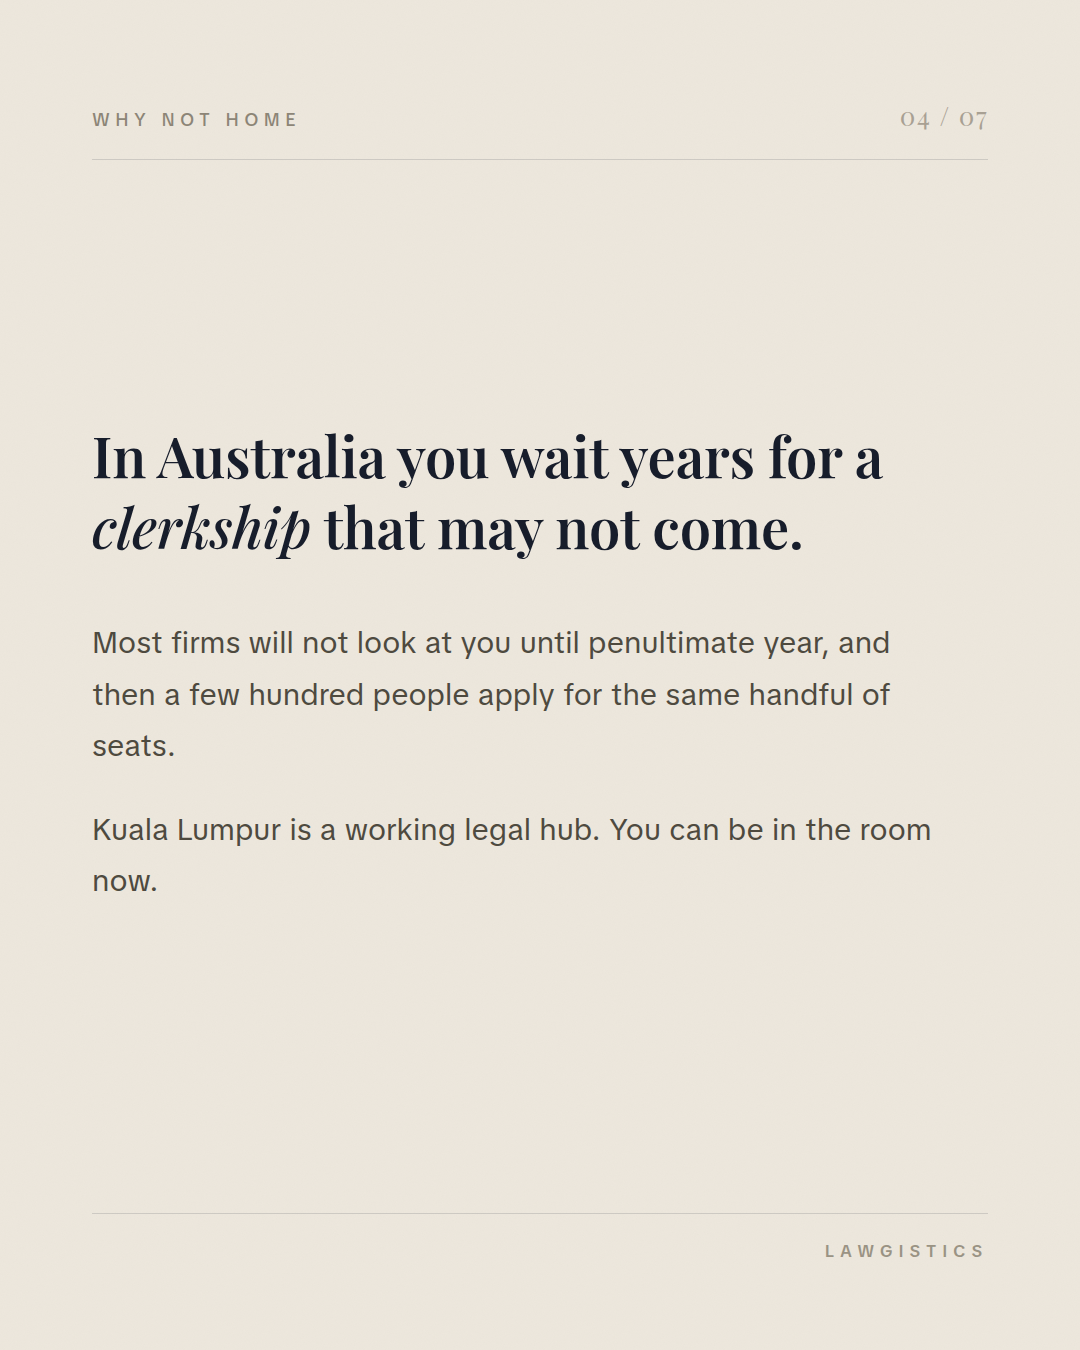
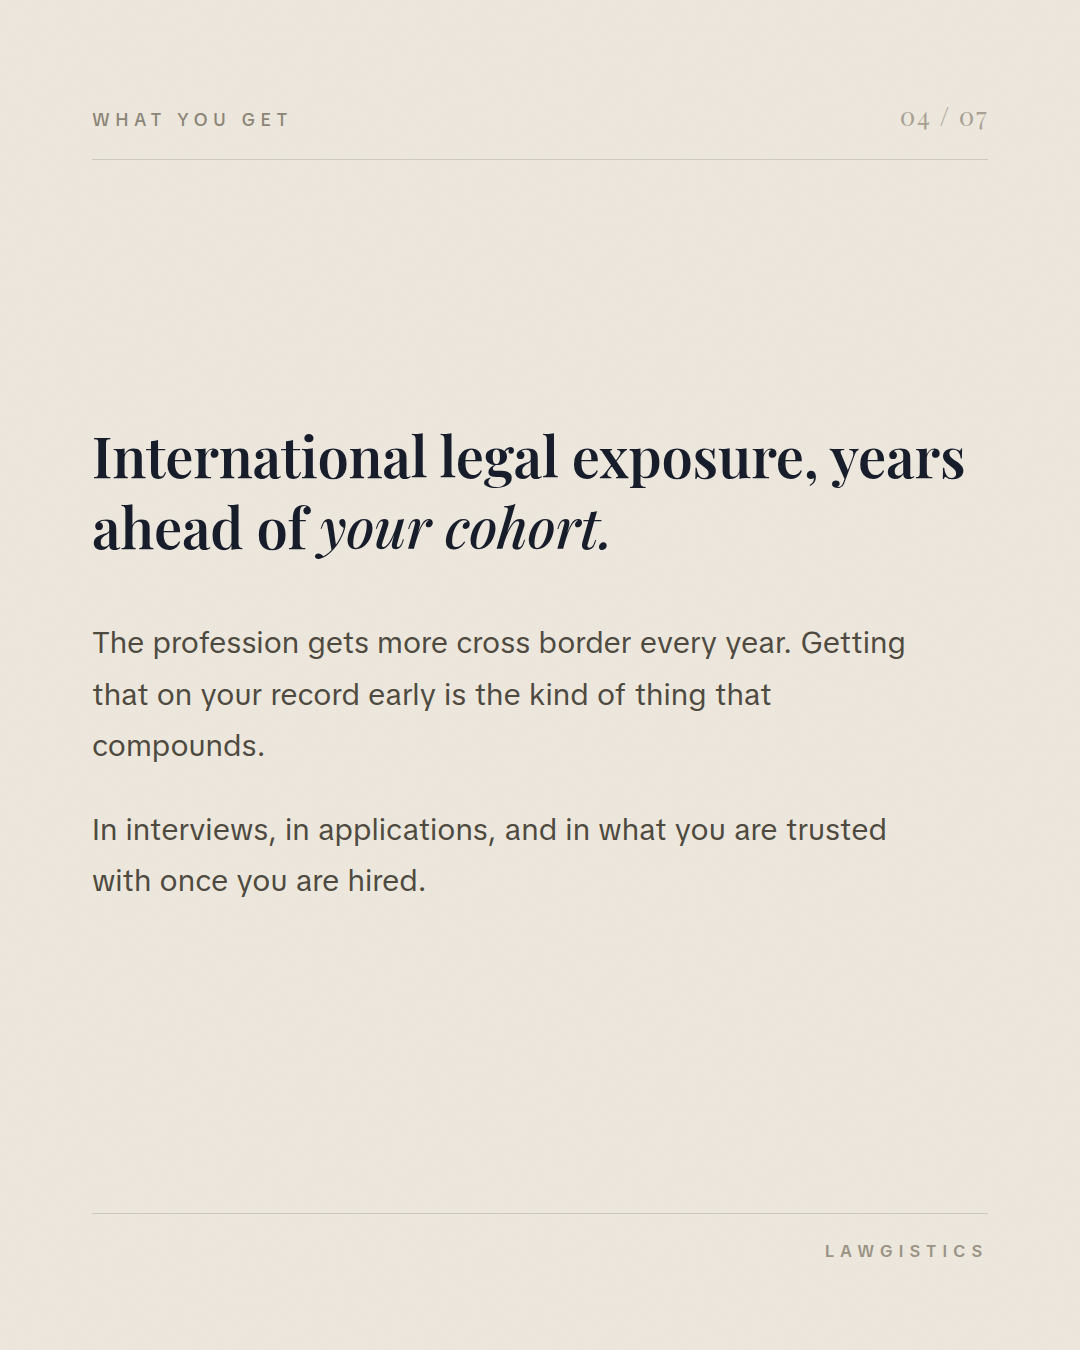
Reframe pinned post as gain, not shortfall
- slide 4: clerkship scarcity framing removed entirely, replaced with
  international exposure ahead of your cohort
- slide 6: drop 'no distinction average', which carried the same signal
- caption and LinkedIn version realigned
- standing rule recorded in CLAUDE.md so future program copy never positions
  the program against a shortage at home

Claude-Session: https://claude.ai/code/session_01JRjeUUcoRT5GxuTf3inkfN

diff --git a/tools/carousel/pinned.py b/tools/carousel/pinned.py
@@ -121,10 +121,10 @@ slide(3, "What You Do",
   '<div><b>Career insight.</b> Ask the questions your lecturers cannot answer.</div>'
   '</div>')
 
-slide(4, "Why Not Home",
-  '<div class="statement md">In Australia you wait years for a <em>clerkship</em> that may not come.</div>'
-  '<div class="body"><p>Most firms will not look at you until penultimate year, and then a few hundred people apply for the same handful of seats.</p>'
-  '<p>Kuala Lumpur is a working legal hub. You can be in the room now.</p></div>',
+slide(4, "What You Get",
+  '<div class="statement md">International legal exposure, years ahead of <em>your cohort.</em></div>'
+  '<div class="body"><p>The profession gets more cross border every year. Getting that on your record early is the kind of thing that compounds.</p>'
+  '<p>In interviews, in applications, and in what you are trusted with once you are hired.</p></div>',
   light=True)
 
 slide(5, "Why It Matters",
@@ -133,9 +133,8 @@ slide(5, "Why It Matters",
   '<p>That is an interview answer nobody else in the room has.</p></div>')
 
 slide(6, "Who It Is For",
-  '<div class="statement md">Any year. No experience required.</div>'
-  '<div class="body"><p>First year to final year, and recent graduates. You do not need prior legal work, a distinction average, or a connection in the profession.</p>'
-  '<p>You need to want to be in the room.</p></div>',
+  '<div class="statement md">Students who want to be <em>ahead</em> of where they are.</div>'
+  '<div class="body"><p>Open from first year through to final year, and to recent graduates. No prior legal experience needed, and no connection in the profession required.</p></div>',
   light=True)
 
 slide(7, "Apply",

diff --git a/reports/assets/pinned/POSTING-KIT.md b/reports/assets/pinned/POSTING-KIT.md
@@ -27,11 +27,11 @@ Practical experience. You work alongside lawyers on live matters.
 
 Career insight. You get to ask the questions your lecturers cannot answer, because they have not been in practice for fifteen years.
 
-Why not just do it at home. Because in Australia most firms will not look at you until penultimate year, and then several hundred people apply for the same handful of clerkship seats. Kuala Lumpur is a working legal hub and you can be in the room now, in any year of your degree.
+What you get out of it. International legal exposure, years ahead of your cohort. The profession gets more cross border every year, and having that on your record early is the kind of thing that compounds. In interviews, in applications, and in what you get trusted with once you are hired.
 
 Why it matters for you. Every single person applying for a clerkship has a transcript. Almost none of them have watched a matter run in a foreign jurisdiction and can say something intelligent about it. That is an interview answer nobody else in the room has.
 
-Who it is for. First year through to final year, and recent graduates. No prior legal work, no distinction average, no connection in the profession required.
+Who it is for. Students who want to be ahead of where they are. Open from first year through to final year, and to recent graduates. No prior legal experience needed and no connection in the profession required.
 
 Applications, dates and eligibility are in the link in bio. Questions, send us a DM, we answer all of them.
 
@@ -47,7 +47,7 @@ Most law students will graduate having never been inside a courtroom that was no
 
 That is the gap Lawgistics exists to close. We place Australian law students in legal internships in Kuala Lumpur, working alongside practising lawyers and sitting in on real proceedings.
 
-The structural problem this solves is timing. In Australia most firms will not consider a student until penultimate year, and the clerkship rounds that follow are heavily oversubscribed. A student can therefore reach their fourth year of a law degree without having seen a matter run.
+What students get out of it is international legal exposure, years ahead of their cohort. The profession gets more cross border every year, and having that on the record early compounds.
 
 The practical case is simple. Every applicant for a clerkship has a transcript. Very few can speak, in an interview, about a matter they watched run in another jurisdiction and what it taught them about advocacy. That is a differentiator that does not require a distinction average to earn.
 
@@ -65,7 +65,8 @@ I wrote this from what is in the account brief, so every claim is one you have a
 |---|---|---|
 | "for the length of the program" (slide 2) | slide only | Fine as written, it avoids naming a duration. Swap in the real duration if you would rather be specific. |
 | "Work alongside practising lawyers on live matters" (slide 3) | slide + caption | Confirm this matches what placements actually involve. If interns observe rather than work on matters, tell me and I will change it to observation language. This is the one claim a prospective applicant could hold you to. |
-| "Most firms will not look at you until penultimate year" (slide 4) | slide + caption | True of the major firm clerkship rounds, which is what students mean by a clerkship. Says "most", not "all", so smaller firms and volunteer work are not contradicted. You know this market better than I do, so change it if it overstates. |
+
+**Framing rule, added at Niamh's direction 9 Aug 2026.** Never position the program against a shortage at home. Do not write that clerkships are hard to get, that firms will not look at you, or that you do not need good marks. It reads as a consolation prize and invites the assumption that only students who could not get something else apply. Every slide states a gain, not a shortfall. This applies to all future intern and program content, not just this post.
 
 Everything else, courtroom access, career insight, open to all year levels, is from the brief.
 

diff --git a/CLAUDE.md b/CLAUDE.md
@@ -59,6 +59,12 @@ Goes after the citations, before the disclaimer and hashtags. No exclamation mar
 
 Case captions are written as **thought leadership**, not case notes: state a view, draw the broader lesson, and let the restraint carry the premium tone. Short declarative sentences, no hype, no hedging.
 
+## Program content: gain, never shortfall
+
+Niamh's rule, 9 Aug 2026. Intern and program copy is **always** framed as what the student gains, never as a shortage or difficulty at home. Do NOT write that clerkships are competitive or hard to get, that firms will not look at students until penultimate year, or that applicants do not need a distinction average. That framing reads as a consolation prize and signals that only students who failed to get something else would apply. Tall poppy syndrome does the rest.
+
+Every line answers "what is in it for me", stated as an advantage: international exposure ahead of your cohort, courtroom access, something on the record that compounds. Aspirational, not remedial.
+
 ## Editorial rules
 
 - Verify every case against primary/secondary sources; never invent citations, parties, judges or outcomes. Flag unverified details honestly in the brief.
